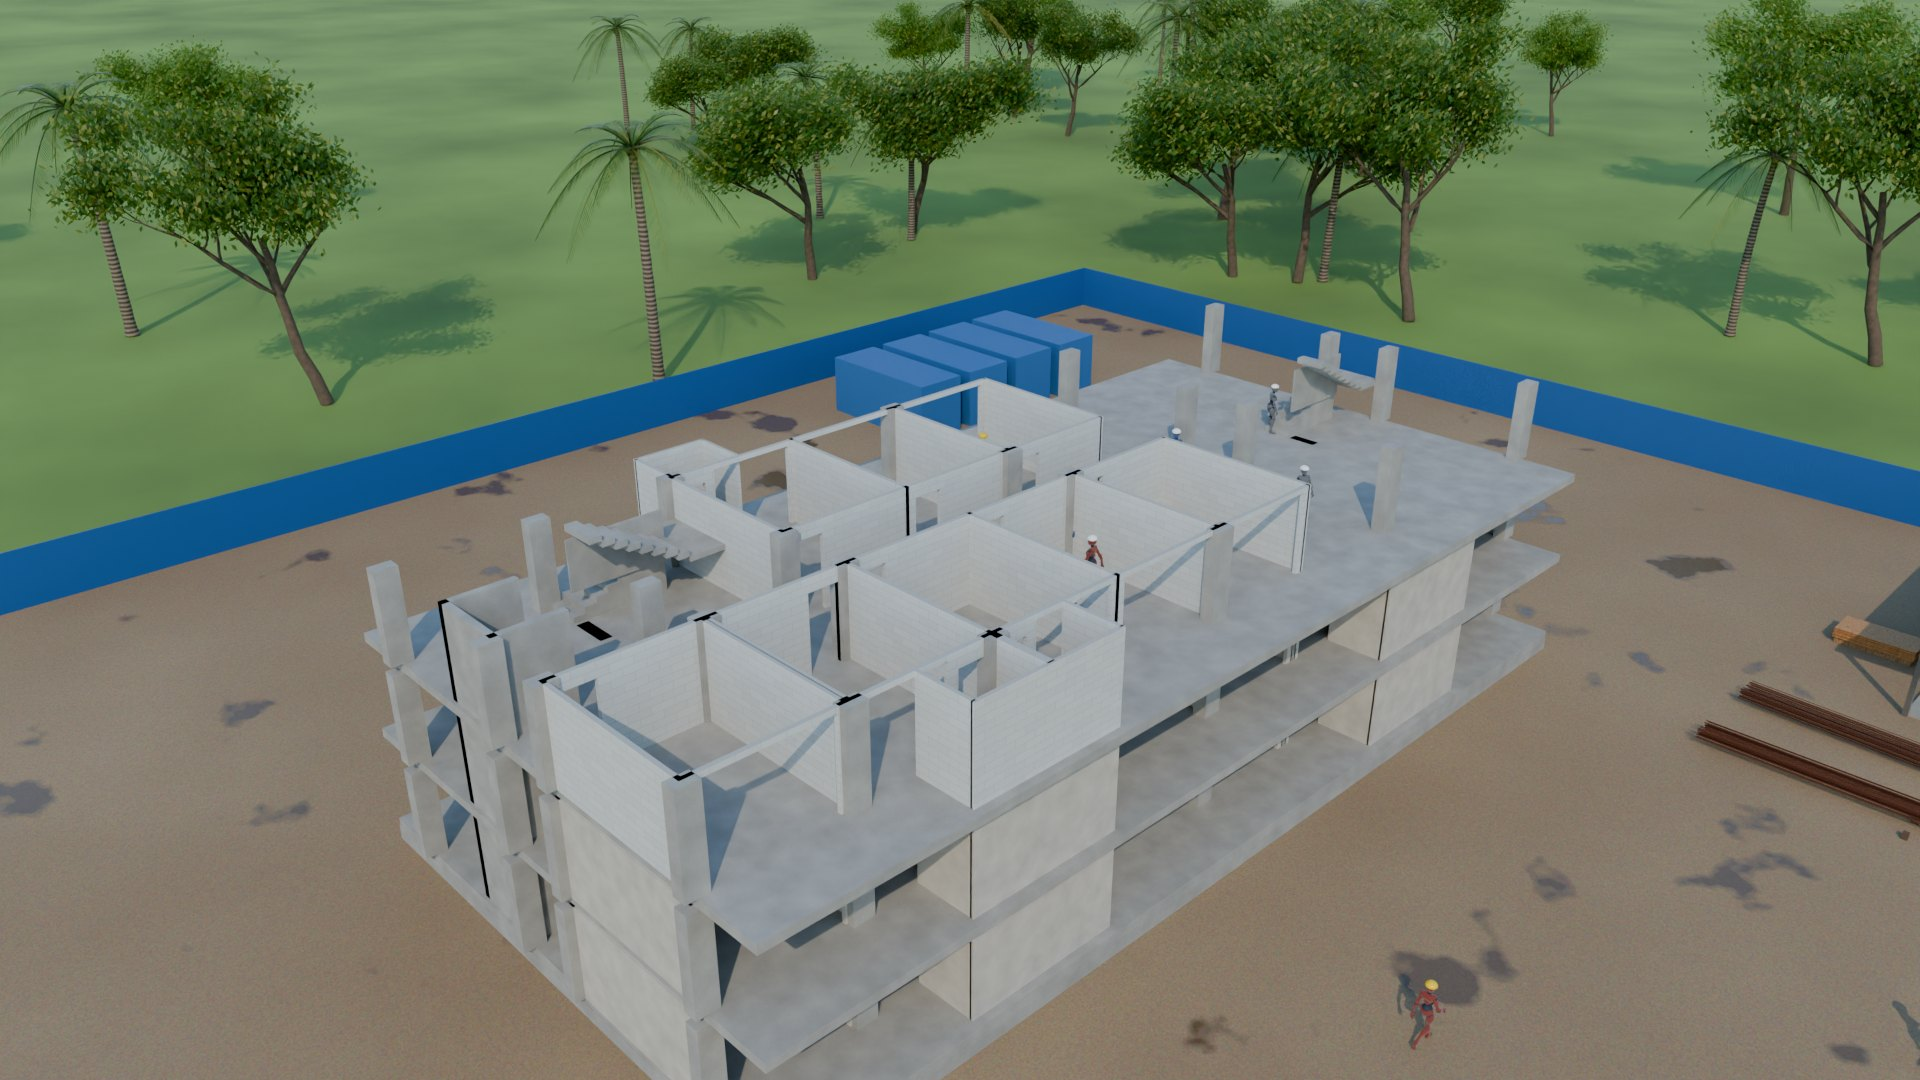
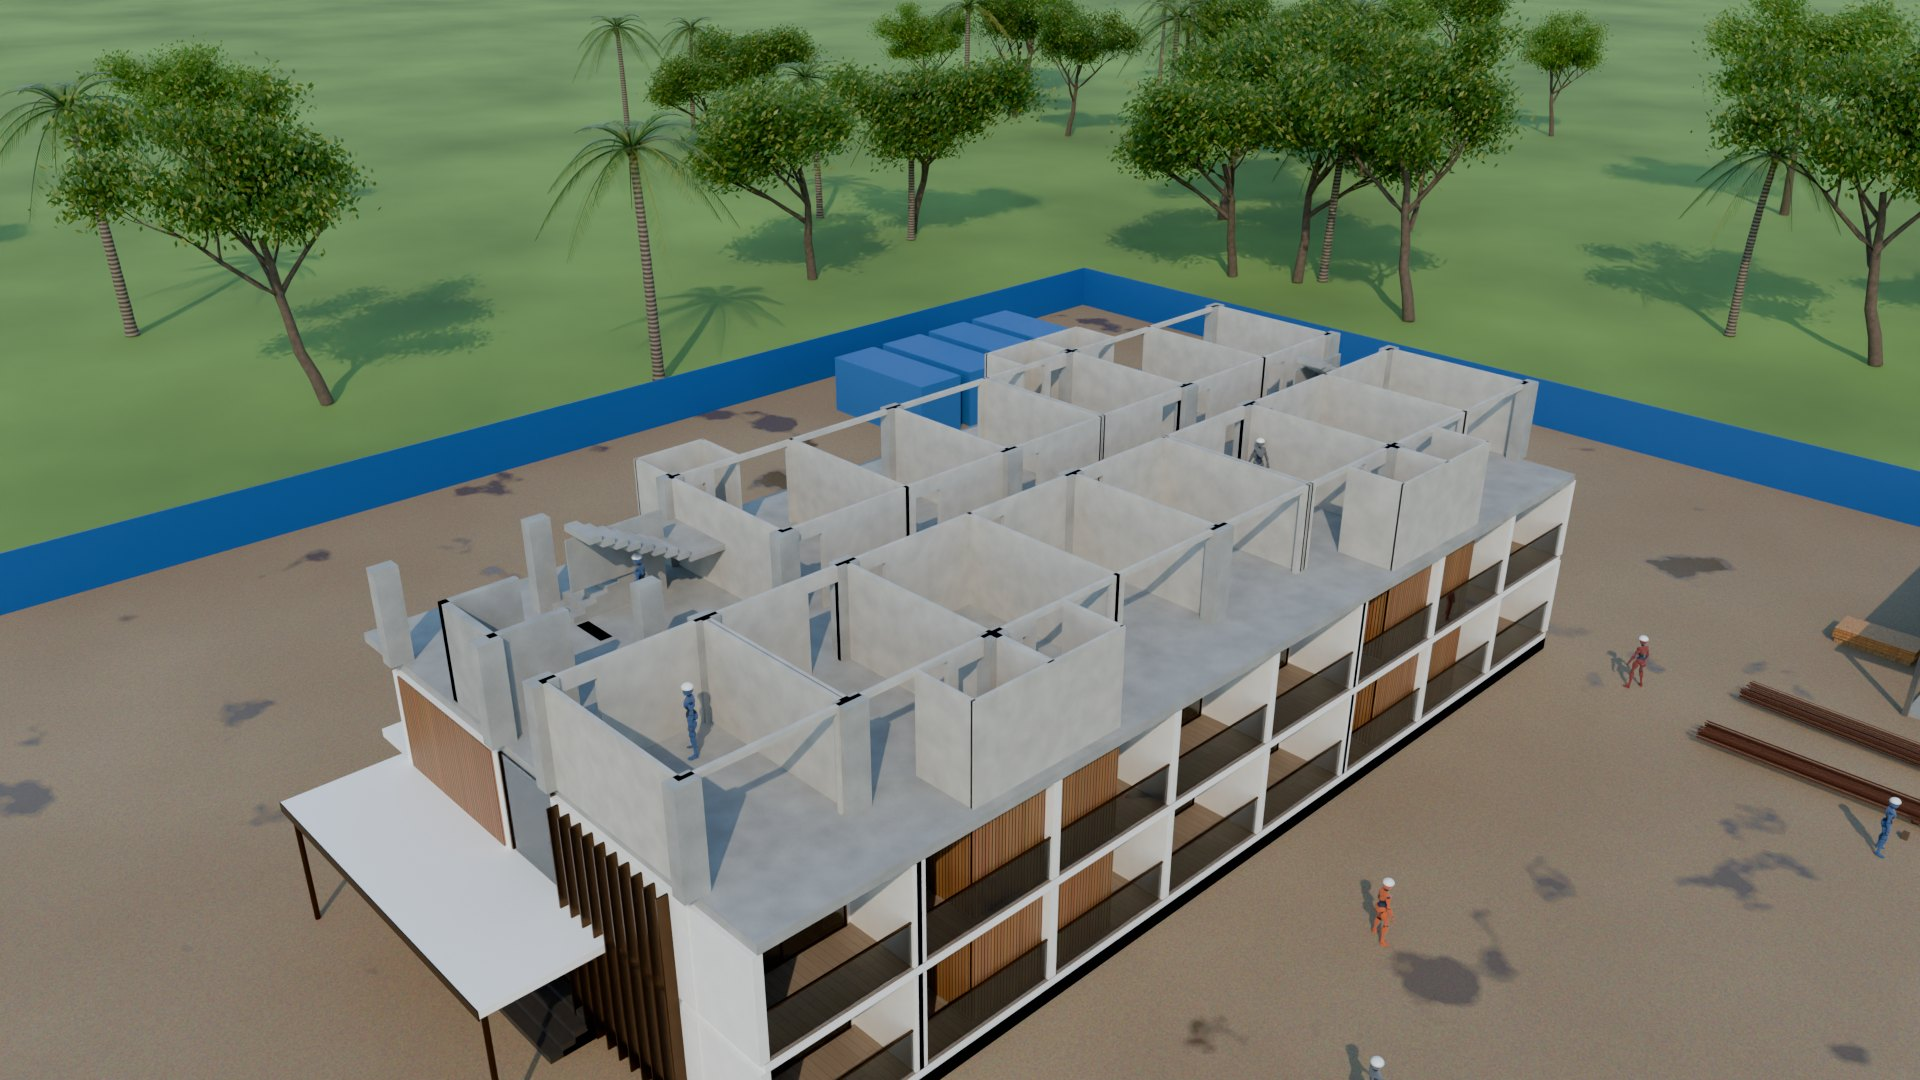
Sync slides and website to final Earn Value file (60%, SPI 0.89, CPI 0.92)
Claude-Session: https://claude.ai/code/session_01B3BD1HFxq96t9JYYbvX9HC

diff --git a/index.html b/index.html
@@ -241,13 +241,13 @@ h2{font-weight:200;letter-spacing:.01em}.kicker,.chap-no .t{letter-spacing:.22em
       <div class="chap-no"><span class="n">03</span><span class="r"></span><span class="t">Plan vs Actual</span></div>
       <div class="kicker">วันที่รายงาน 22 พ.ค. 2570</div>
       <h2>แผนกับของจริง <em>ไม่ตรงกัน</em></h2>
-      <p>ตามแผนวันนี้หลังคาต้องเสร็จแล้ว และงานสถาปัตย์ชั้น 1–2 ต้องปิดงาน ส่วนหน้างานจริง โครงสร้างฐานราก–ชั้น 6 เสร็จครบ 100% ทุกรายการแล้ว เหลือพื้นดาดฟ้าและหลังคาที่ยังไม่เริ่ม</p>
+      <p>ตามแผนวันนี้หลังคาต้องเสร็จแล้ว และงานสถาปัตย์ชั้น 1–2 ต้องปิดงาน ส่วนหน้างานจริง โครงสร้างฐานราก–ชั้น 6 และสถาปัตย์ชั้น 1–2 เสร็จครบ 100% แล้ว แต่พื้นดาดฟ้าและหลังคายังไม่เริ่ม และชั้น 3 ทำได้ 35%</p>
       <div class="toggle"><span class="tag" id="tPlan">ตามแผน · Plan</span><span class="tag" id="tAct">ตามจริง · Actual</span></div>
       <div class="duo">
-        <div><small>Overall · MS Project</small><b>55%</b></div>
-        <div><small>Forecast finish</small><b>21 ส.ค. 70</b><small class="bad">ช้ากว่าแผน 17 วัน</small></div>
+        <div><small>Overall · MS Project</small><b>60%</b></div>
+        <div><small>Forecast finish</small><b>16 ส.ค. 70</b><small class="bad">ช้ากว่าแผน 12 วัน</small></div>
         <div><small>Structure</small><b>90%</b><em style="display:block;font-size:.7em;font-style:normal;opacity:.75">ฐานราก–ชั้น 6 เสร็จ 100%</em></div>
-        <div><small>Architecture</small><b>31%</b></div>
+        <div><small>Architecture</small><b>36%</b><em style="display:block;font-size:.7em;font-style:normal;opacity:.75">ชั้น 1–2 เสร็จ 100%</em></div>
       </div>
     </div></div>
     <div class="spacer s2"></div>
@@ -257,10 +257,10 @@ h2{font-weight:200;letter-spacing:.01em}.kicker,.chap-no .t{letter-spacing:.22em
     <div class="pin"><div class="col">
       <div class="chap-no"><span class="n">04</span><span class="r"></span><span class="t">Section · Level 3</span></div>
       <h2>งานสถาปัตย์ชั้น 3 <em>หยุดตรงนี้</em></h2>
-      <p>โครงสร้างชั้น 3 (พื้น คาน เสา บันได ผนังลิฟต์) เสร็จ 100% ที่ยังค้างคืองานสถาปัตย์ — ผนัง 64% · พื้นกระเบื้อง 75%</p>
+      <p>โครงสร้างชั้น 3 (พื้น คาน เสา บันได ผนังลิฟต์) เสร็จ 100% งานสถาปัตย์ชั้น 3 ทำได้ 35% — ก่อ/ฉาบ/บุกระเบื้องผนังและปูพื้นเสร็จ 100% ถัดไปคือฝ้าและบันได</p>
       <div class="legend"><span style="--c:#9d9c96">Done · เสร็จ</span><span style="--c:var(--wip)">In progress · กำลังทำ</span><span style="--c:var(--todo)">Not started · ยังไม่เริ่ม</span></div>
       <div class="tasks" id="f3"></div>
-      <p class="muted" style="margin-top:16px">กันซึมห้องน้ำและระเบียงเลยกำหนด 20 พ.ค. แล้ว ต้องทำก่อนปูกระเบื้องส่วนที่เหลือ</p>
+      <p class="muted" style="margin-top:16px">กันซึมห้องน้ำ/ระเบียง (แผน 8–14 พ.ค.) และวงกบประตูหน้าต่าง (14–19 พ.ค.) เลยกำหนดแต่ยังไม่เริ่ม</p>
     </div></div>
     <div class="spacer s2"></div>
   </section>
@@ -269,8 +269,8 @@ h2{font-weight:200;letter-spacing:.01em}.kicker,.chap-no .t{letter-spacing:.22em
     <div class="inner">
       <div class="chap-no"><span class="n">05</span><span class="r"></span><span class="t">S-Curve · Earned Value · May 2027</span></div>
       <div class="head">
-        <h2>ทำงานได้ <em>81%</em> ของแผน ใช้เงินเกินมูลค่างาน</h2>
-        <p class="muted">PV 19.41 · EV 15.80 · AC 18.34 ล้านบาท งานโครงสร้างทุกชั้นเกินงบราว 10% และพื้นดาดฟ้ามีค่าใช้จ่าย 0.33 ลบ. ทั้งที่ผลงานยังเป็นศูนย์</p>
+        <h2>ทำงานได้ <em>89%</em> ของแผน ใช้เงินเกินมูลค่างาน</h2>
+        <p class="muted">PV 18.85 · EV 16.85 · AC 18.37 ล้านบาท งานโครงสร้างทุกชั้นเกินงบราว 10% และพื้นดาดฟ้ามีค่าใช้จ่าย 0.33 ลบ. ทั้งที่ผลงานยังเป็นศูนย์</p>
       </div>
       <div class="grid2">
         <div style="min-width:0">
@@ -279,12 +279,12 @@ h2{font-weight:200;letter-spacing:.01em}.kicker,.chap-no .t{letter-spacing:.22em
         </div>
         <div style="min-width:0">
           <div class="kpis">
-            <div class="kpi"><small>SPI = EV ÷ PV</small><b class="bad">0.81</b><span>ช้ากว่าแผน</span></div>
-            <div class="kpi"><small>CPI = EV ÷ AC</small><b class="bad">0.86</b><span>เกินงบ</span></div>
-            <div class="kpi"><small>SV</small><b>−3.61</b><span>ล้านบาท</span></div>
-            <div class="kpi"><small>CV</small><b>−2.54</b><span>ล้านบาท</span></div>
-            <div class="kpi"><small>EAC = BAC ÷ CPI</small><b>26.07</b><span>ล้านบาท (งบ 22.47)</span></div>
-            <div class="kpi"><small>TCPI</small><b>1.61</b><span>ต้องคุมต้นทุนงานที่เหลือ</span></div>
+            <div class="kpi"><small>SPI = EV ÷ PV</small><b class="bad">0.89</b><span>ช้ากว่าแผน</span></div>
+            <div class="kpi"><small>CPI = EV ÷ AC</small><b class="bad">0.92</b><span>เกินงบ</span></div>
+            <div class="kpi"><small>SV</small><b>−2.01</b><span>ล้านบาท</span></div>
+            <div class="kpi"><small>CV</small><b>−1.53</b><span>ล้านบาท</span></div>
+            <div class="kpi"><small>EAC = BAC ÷ CPI</small><b>24.50</b><span>ล้านบาท (งบ 22.47)</span></div>
+            <div class="kpi"><small>TCPI</small><b>1.37</b><span>ต้องคุมต้นทุนงานที่เหลือ</span></div>
           </div>
         </div>
       </div>
@@ -295,8 +295,8 @@ h2{font-weight:200;letter-spacing:.01em}.kicker,.chap-no .t{letter-spacing:.22em
     <div class="inner">
       <div class="chap-no"><span class="n">06</span><span class="r"></span><span class="t">Critical Path · Total Float 0</span></div>
       <div class="head">
-        <h2><em>15</em> กิจกรรมที่กำหนดวันจบโครงการ</h2>
-        <p class="muted">สายงานวิกฤตคืองานก่อและฉาบผนัง AAC ที่ไล่ขึ้นทีละชั้นจาก 3 ถึง 6 แล้วต่อด้วยงานเก็บงานชั้น 6 ถ้างานใดในสายนี้ช้าหนึ่งวัน วันจบโครงการจะเลื่อนตามหนึ่งวัน</p>
+        <h2><em>13</em> กิจกรรมที่กำหนดวันจบโครงการ</h2>
+        <p class="muted">สายงานวิกฤตคืองานก่อและฉาบผนัง AAC ที่ไล่ขึ้นทีละชั้นจาก 4 ถึง 6 แล้วต่อด้วยงานเก็บงานชั้น 6 (จบ 16 ส.ค. 70) ถ้างานใดในสายนี้ช้าหนึ่งวัน วันจบโครงการจะเลื่อนตามหนึ่งวัน</p>
       </div>
       <div class="chain" id="chain"></div>
     </div>
@@ -364,8 +364,8 @@ h2{font-weight:200;letter-spacing:.01em}.kicker,.chap-no .t{letter-spacing:.22em
 // ---------- static content (renders without WebGL) ----------
 (function(){
 const S=[0,2155120,3475564.31,4883038.63,6905504.19,8951031.76,11336977.18,14763600.09,17165571.05,19413714.56,20963733.57,22378597.75,22466881.48];
-const P=[0,1505000,3330208.65,4016722.02,6301681.23,8198921.23,10072438.87,12445574.53,14809791,15802999.64];
-const A=[0,1655500,3663229.52,4418394.24,6931528.74,9036451.57,11097321.02,13834434.35,16784616.11,18339116.14];
+const P=[0,2156212.27,3434524.93,4877935.93,6720088.16,8640055.32,10607606.99,13819892.41,15731773.69,16845073.41];
+const A=[0,2371833.49,3777977.44,5365729.56,7392097.05,9504060.99,11663170.89,15065599.34,16982351.15,18370524.83];
 const M=['เริ่ม','ก.ย.','ต.ค.','พ.ย.','ธ.ค.','ม.ค.','ก.พ.','มี.ค.','เม.ย.','พ.ค.','มิ.ย.','ก.ค.','ส.ค.'];
 const BAC=22466881.48, W=720, H=400, x0=48, x1=650, y0=350, y1=24;
 const X=i=>x0+(x1-x0)*i/12, Y=v=>y0-(y0-y1)*v/BAC;
@@ -374,15 +374,15 @@ const path=a=>a.map((v,i)=>(i?'L':'M')+X(i).toFixed(1)+' '+Y(v).toFixed(1)).join
 let g='';
 for(let p=0;p<=100;p+=25){const y=Y(BAC*p/100);g+=`<line x1="${x0}" x2="${x1}" y1="${y}" y2="${y}" stroke="${css('--line')}"/><text x="${x0-8}" y="${y+4}" text-anchor="end" fill="${css('--muted')}" font-size="11" font-family="Manrope">${p}%</text>`;}
 M.forEach((m,i)=>{g+=`<text x="${X(i)}" y="${y0+20}" text-anchor="middle" fill="${css('--muted')}" font-size="11" font-family="Anuphan">${m}</text>`;});
-const sx=X(9);g+=`<line x1="${sx}" x2="${sx}" y1="${y1}" y2="${y0}" stroke="${css('--bronze')}" stroke-dasharray="4 5"/><text x="${sx}" y="${y1-6}" text-anchor="middle" fill="${css('--bronze')}" font-size="11" font-family="Manrope">22 พ.ค. 70</text>`;
-for(const [arr,c,w] of [[S,css('--pv'),2.5],[A,css('--ac'),3],[P,css('--ev'),3]]){g+=`<path d="${path(arr)}" fill="none" stroke="${c}" stroke-width="${w}" stroke-linejoin="round"/>`;arr.forEach((v,i)=>{g+=`<circle cx="${X(i)}" cy="${Y(v)}" r="${i===9?5:2.6}" fill="${c}"/>`;});}
-g+=`<text x="${sx+10}" y="${Y(S[9])-4}" fill="${css('--pv')}" font-size="12" font-family="Manrope">PV 86.4%</text><text x="${sx+10}" y="${Y(A[9])+4}" fill="${css('--ac')}" font-size="12" font-family="Manrope">AC 81.6%</text><text x="${sx+10}" y="${Y(P[9])+5}" fill="${css('--ev')}" font-size="12" font-family="Manrope">EV 70.3%</text>`;
-document.getElementById('scurve').innerHTML=`<svg viewBox="0 0 ${W} ${H}" role="img" aria-label="S-Curve: แผน 86.4% ต้นทุนจริง 81.6% ผลงาน 70.3% ณ สิ้น พ.ค. 70">${g}</svg>`;
-const CH=[{"fl": 1, "n": "ทาสีจริง", "d": "16 เม.ย. – 22 เม.ย.", "p": 67}, {"fl": 3, "n": "ฉาบปูน", "d": "6 พ.ค. – 21 พ.ค.", "p": 64}, {"fl": 4, "n": "ก่อผนัง AAC", "d": "26 พ.ค. – 7 มิ.ย.", "p": 0}, {"fl": 4, "n": "ฉาบปูน", "d": "2 มิ.ย. – 14 มิ.ย.", "p": 0}, {"fl": 5, "n": "ก่อผนัง AAC", "d": "18 มิ.ย. – 30 มิ.ย.", "p": 0}, {"fl": 5, "n": "ฉาบปูน", "d": "25 มิ.ย. – 7 ก.ค.", "p": 0}, {"fl": 6, "n": "ก่อผนัง AAC", "d": "12 ก.ค. – 23 ก.ค.", "p": 0}, {"fl": 6, "n": "ฉาบปูน", "d": "19 ก.ค. – 30 ก.ค.", "p": 0}, {"fl": 6, "n": "ปูกระเบื้องพื้น", "d": "23 ก.ค. – 31 ก.ค.", "p": 0}, {"fl": 6, "n": "โครงฝ้า", "d": "27 ก.ค. – 4 ส.ค.", "p": 0}, {"fl": 6, "n": "ยิปซัมบอร์ด", "d": "2 ส.ค. – 10 ส.ค.", "p": 0}, {"fl": 6, "n": "บานประตู/หน้าต่าง", "d": "17 ส.ค. – 20 ส.ค.", "p": 0}, {"fl": 6, "n": "อุปกรณ์ประตู", "d": "21 ส.ค. – 21 ส.ค.", "p": 0}, {"fl": 6, "n": "ทาสีรองพื้น", "d": "7 ส.ค. – 12 ส.ค.", "p": 0}, {"fl": 6, "n": "ทาสีจริง", "d": "11 ส.ค. – 16 ส.ค.", "p": 0}];
+const sx=X(8+22/31);g+=`<line x1="${sx}" x2="${sx}" y1="${y1}" y2="${y0}" stroke="${css('--bronze')}" stroke-dasharray="4 5"/><text x="${sx}" y="${y1-6}" text-anchor="middle" fill="${css('--bronze')}" font-size="11" font-family="Manrope">22 พ.ค. 70</text>`;
+const XI=i=>i<9?i:8+22/31; const SS=[0,2153037.29,3475564.31,4880324.84,6888196.72,8958872.82,11345816.55,14738203.94,17068076.83,18854189.71];const path2=a=>a.map((v,i)=>(i?'L':'M')+X(XI(i)).toFixed(1)+' '+Y(v).toFixed(1)).join(' ');g+=`<path d="M${X(8+22/31).toFixed(1)} ${Y(SS[9]).toFixed(1)} L${X(9)} ${Y(S[9])} L${X(10)} ${Y(S[10])} L${X(11)} ${Y(S[11])} L${X(12)} ${Y(S[12])}" fill="none" stroke="${css('--pv')}" stroke-width="2" stroke-dasharray="5 5" opacity=".6"/>`;for(const [arr,c,w] of [[SS,css('--pv'),2.5],[A,css('--ac'),3],[P,css('--ev'),3]]){g+=`<path d="${path2(arr)}" fill="none" stroke="${c}" stroke-width="${w}" stroke-linejoin="round"/>`;arr.forEach((v,i)=>{g+=`<circle cx="${X(XI(i))}" cy="${Y(v)}" r="${i===9?5:2.6}" fill="${c}"/>`;});}
+g+=`<text x="${sx+10}" y="${Y(SS[9])-6}" fill="${css('--pv')}" font-size="12" font-family="Manrope">PV 83.9%</text><text x="${sx+10}" y="${Y(A[9])+4}" fill="${css('--ac')}" font-size="12" font-family="Manrope">AC 81.8%</text><text x="${sx+10}" y="${Y(P[9])+5}" fill="${css('--ev')}" font-size="12" font-family="Manrope">EV 75.0%</text>`;
+document.getElementById('scurve').innerHTML=`<svg viewBox="0 0 ${W} ${H}" role="img" aria-label="S-Curve: แผน 83.9% ต้นทุนจริง 81.8% ผลงาน 75.0% ณ 22 พ.ค. 70">${g}</svg>`;
+const CH=[{"fl": 4, "n": "ก่อผนัง AAC", "d": "20 พ.ค. – 1 มิ.ย.", "p": 0}, {"fl": 4, "n": "ฉาบปูน", "d": "27 พ.ค. – 8 มิ.ย.", "p": 0}, {"fl": 5, "n": "ก่อผนัง AAC", "d": "12 มิ.ย. – 24 มิ.ย.", "p": 0}, {"fl": 5, "n": "ฉาบปูน", "d": "19 มิ.ย. – 1 ก.ค.", "p": 0}, {"fl": 6, "n": "ก่อผนัง AAC", "d": "6 ก.ค. – 17 ก.ค.", "p": 0}, {"fl": 6, "n": "ฉาบปูน", "d": "13 ก.ค. – 24 ก.ค.", "p": 0}, {"fl": 6, "n": "ปูกระเบื้องพื้น", "d": "17 ก.ค. – 26 ก.ค.", "p": 0}, {"fl": 6, "n": "โครงฝ้า", "d": "21 ก.ค. – 29 ก.ค.", "p": 0}, {"fl": 6, "n": "ยิปซัมบอร์ด", "d": "27 ก.ค. – 4 ส.ค.", "p": 0}, {"fl": 6, "n": "บานประตู/หน้าต่าง", "d": "11 ส.ค. – 14 ส.ค.", "p": 0}, {"fl": 6, "n": "อุปกรณ์ประตู", "d": "16 ส.ค. – 16 ส.ค.", "p": 0}, {"fl": 6, "n": "ทาสีรองพื้น", "d": "2 ส.ค. – 6 ส.ค.", "p": 0}, {"fl": 6, "n": "ทาสีจริง", "d": "5 ส.ค. – 10 ส.ค.", "p": 0}];
 document.getElementById('chain').innerHTML=CH.map((c,i)=>`<div class="link"><small><span>Level ${c.fl}</span><i>${String(i+1).padStart(2,'0')}</i></small><b>${c.n}</b><span>${c.d}</span><div class="pg"><i style="width:${c.p}%"></i></div></div>`).join('');
 const MIL=[["2026-09-21", "21 ก.ย. 69", "เตรียมพื้นที่ ตอกเสาเข็ม"], ["2026-11-12", "12 พ.ย. 69", "ฐานรากเสร็จ"], ["2026-12-10", "10 ธ.ค. 69", "โครงสร้างชั้น 1"], ["2027-01-29", "29 ม.ค. 70", "โครงสร้างถึงชั้น 3"], ["2027-04-09", "9 เม.ย. 70", "โครงสร้างชั้น 6"], ["2027-05-21", "21 พ.ค. 70", "หลังคาเสร็จ"], ["2027-06-18", "18 มิ.ย. 70", "สถาปัตย์ถึงชั้น 4"], ["2027-08-04", "4 ส.ค. 70", "แล้วเสร็จ"]];
 document.getElementById('miles').innerHTML=MIL.map(m=>`<li data-d="${m[0]}"><b>${m[1]}</b><span>${m[2]}</span></li>`).join('');
-const F3=[["ขัดมันพื้น", 100], ["ปูกระเบื้องพื้น", 70], ["ก่อผนัง AAC", 64], ["ฉาบปูน", 64], ["บุกระเบื้องผนัง", 63], ["โครงฝ้า", 0], ["ยิปซัมบอร์ด", 0], ["วงกบประตู/หน้าต่าง", 0], ["บานประตู/หน้าต่าง", 0], ["อุปกรณ์ประตู", 0], ["ทาสีรองพื้น", 0], ["ทาสีจริง", 0], ["กันซึมห้องน้ำ", 0], ["กันซึมระเบียง", 0], ["ทดสอบขังน้ำ", 0], ["สุขภัณฑ์", 0], ["อุปกรณ์ห้องน้ำ", 0], ["ผิวบันได", 0], ["ราวบันได", 0]];
+const F3=[["ขัดมันพื้น", 100], ["ปูกระเบื้องพื้น", 100], ["ก่อผนัง AAC", 100], ["ฉาบปูน", 100], ["บุกระเบื้องผนัง", 100], ["โครงฝ้า", 0], ["ยิปซัมบอร์ด", 0], ["วงกบประตู/หน้าต่าง", 0], ["บานประตู/หน้าต่าง", 0], ["อุปกรณ์ประตู", 0], ["ทาสีรองพื้น", 0], ["ทาสีจริง", 0], ["กันซึมห้องน้ำ", 0], ["กันซึมระเบียง", 0], ["ทดสอบขังน้ำ", 0], ["สุขภัณฑ์", 0], ["อุปกรณ์ห้องน้ำ", 0], ["ผิวบันได", 0], ["ราวบันได", 0]];
 document.getElementById('f3').innerHTML=F3.map(([n,v])=>{const c=v>=100?'#9d9c96':v>0?'var(--wip)':'var(--todo)';return `<div class="task"><span>${n}</span><span class="b"><i style="width:${Math.max(v,2)}%;background:${c}"></i></span><em>${v}%</em></div>`;}).join('');
 })();
 </script>
